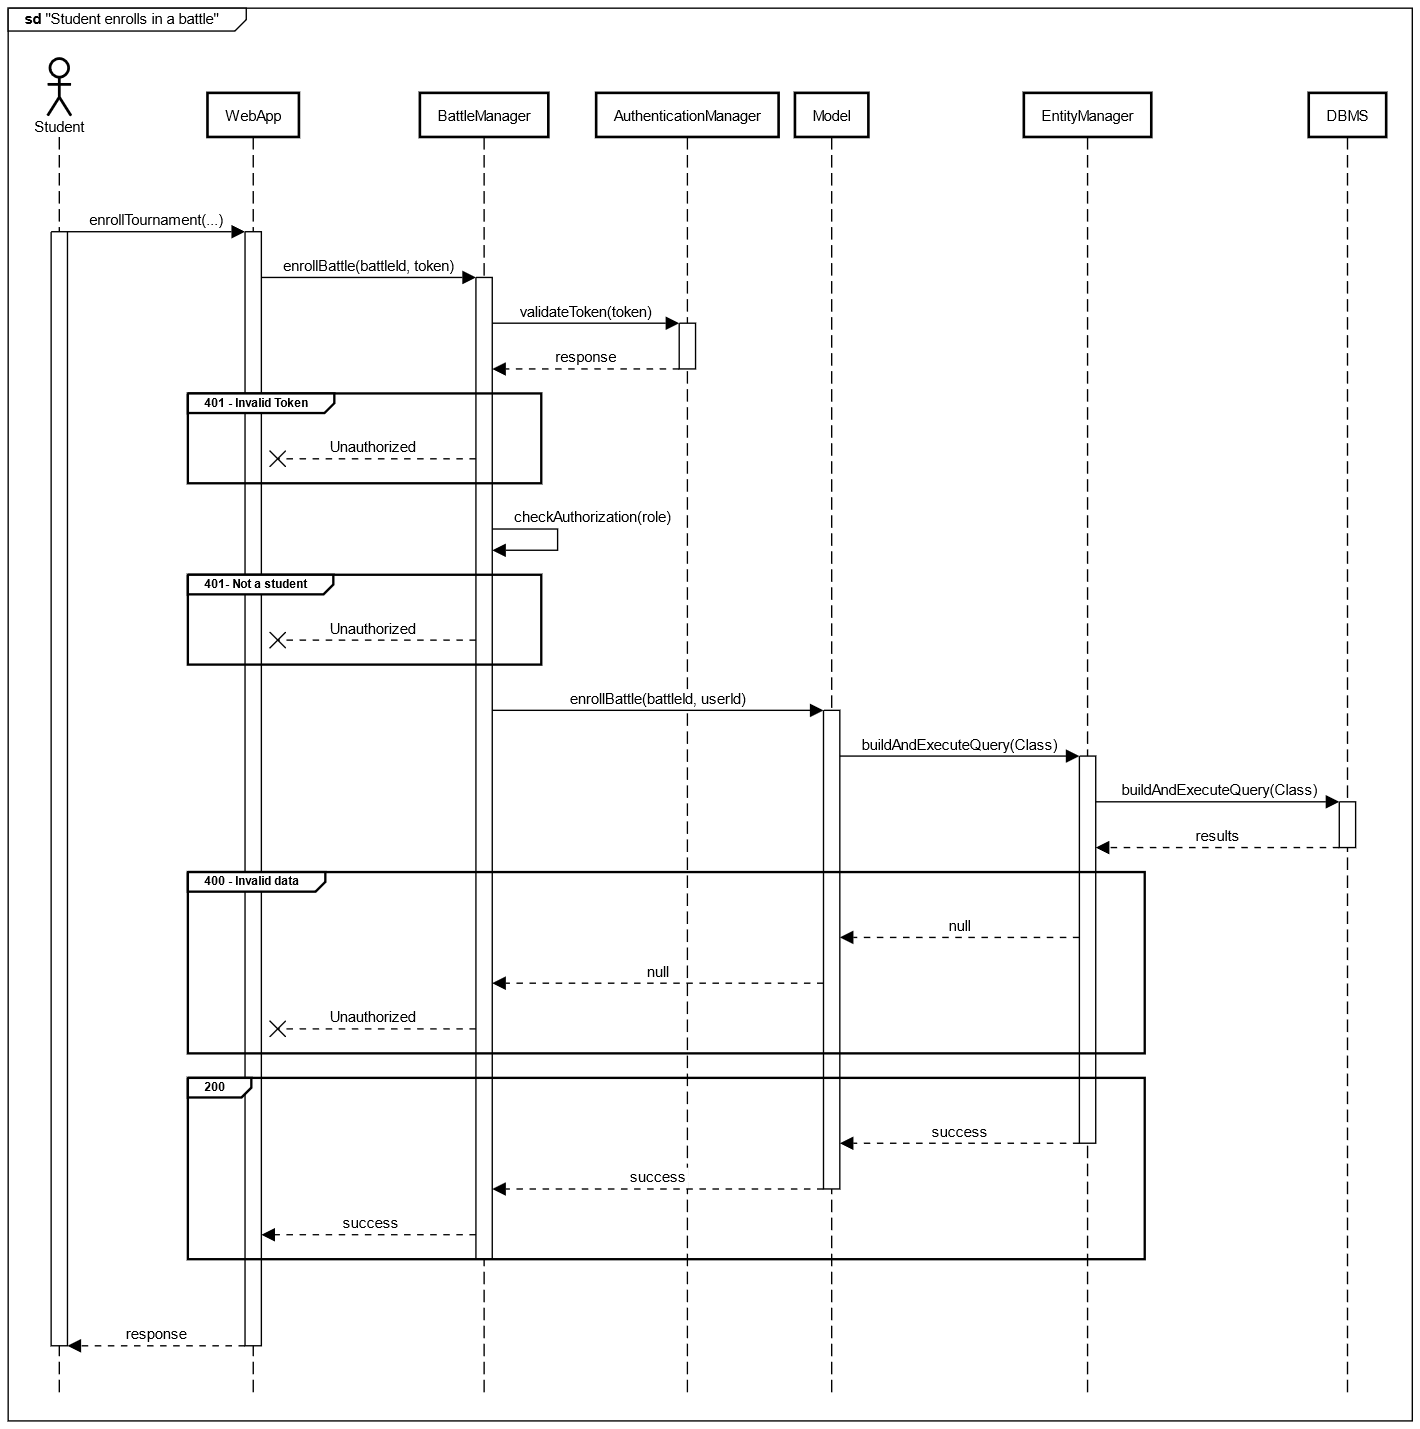
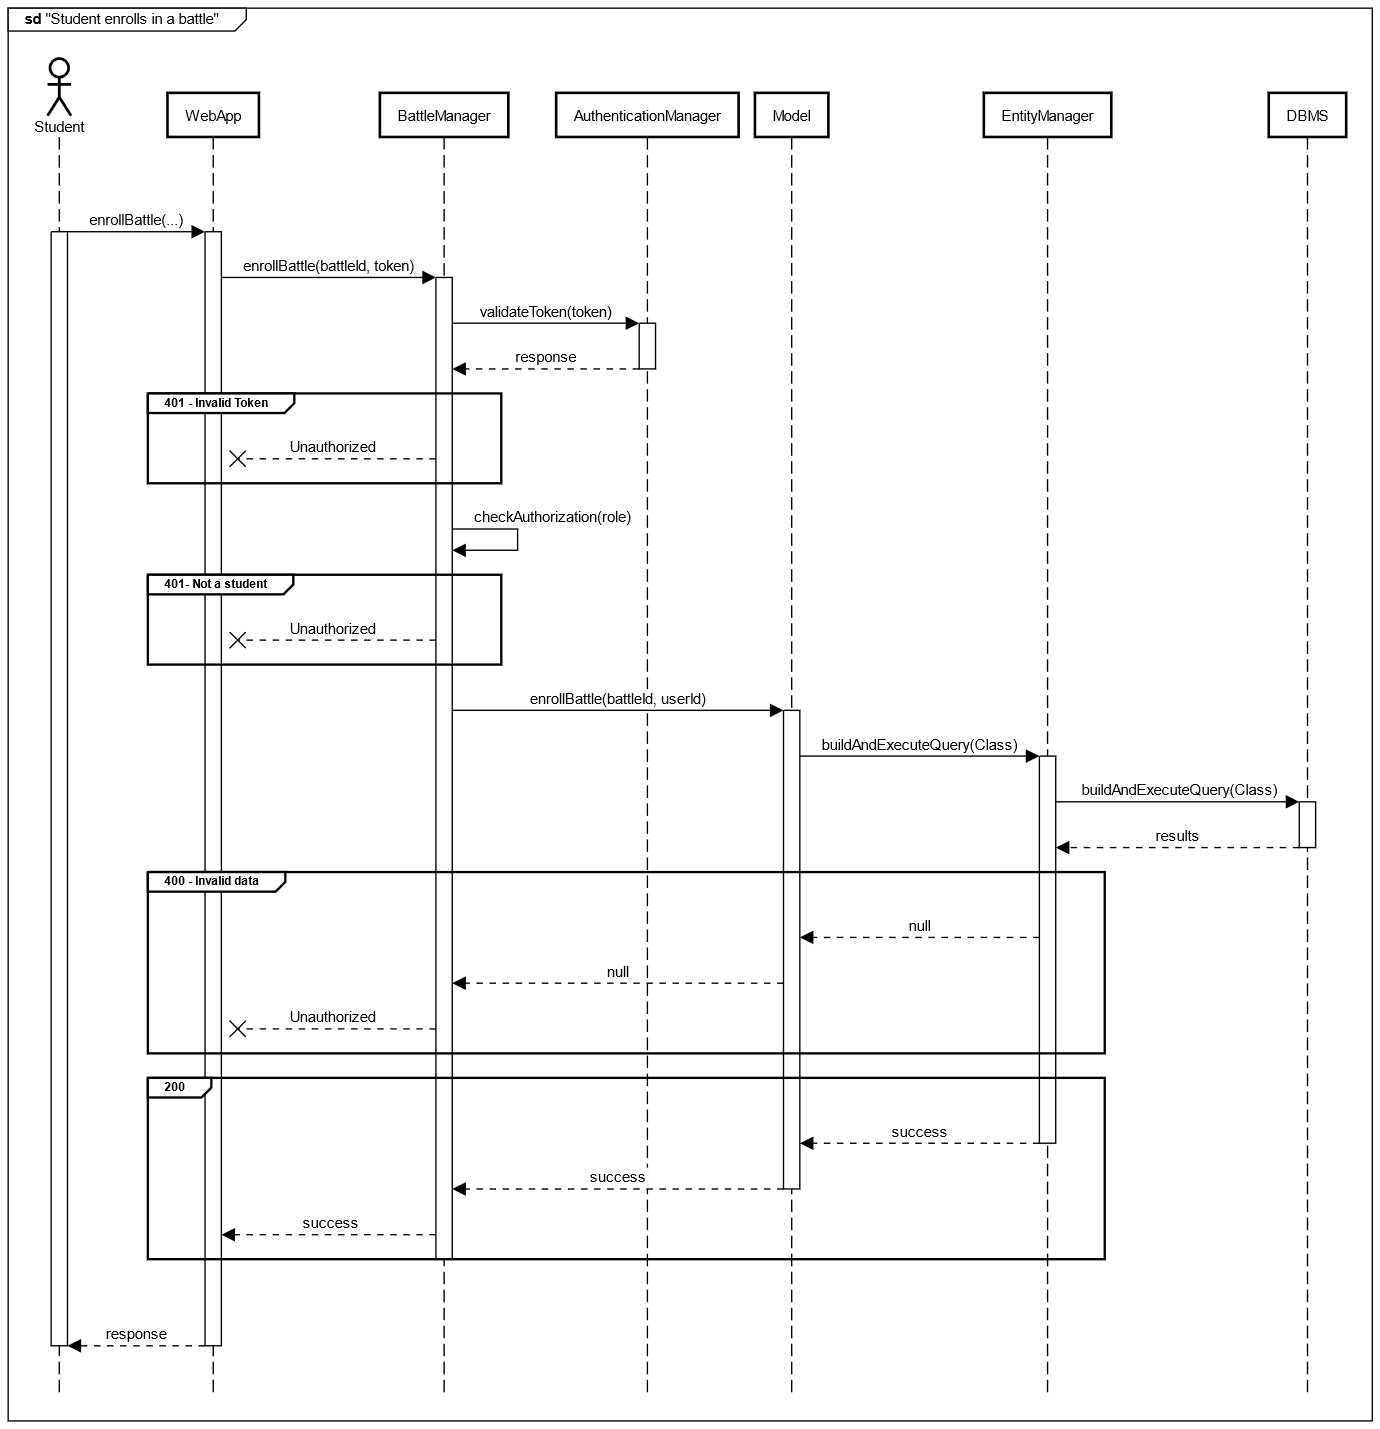
Updated DD

diff --git a/DD/DD_latex/DD.tex b/DD/DD_latex/DD.tex
@@ -242,7 +242,7 @@ The design document aims to explain in detail how we plan to build our system to
     \midrule
     7-Gen-2024 & 1.0 & Initial Release of the document \\
     \midrule
-    4-Feb-2024 & 2.0 & Adjustments implemented to conform to ITD Prototype. Altered logical design of database, leading to revised diagrams. Modified URL structure of some endpoints to comply with Spring standards. \\
+    4-Feb-2024 & 2.0 & Altered logical design of database, leading to revised diagrams. Modified URL structure of some endpoints to comply with Spring standards. \\
     \bottomrule
 \end{tabularx}
 
@@ -472,9 +472,29 @@ The diagram represented down below shows the process of a Student visualizing To
 \caption{A Student sees the tournaments he is enrolled in }
 \end{figure}
 
+\subsection*{Student gets the token to set up the GitHub Action for a battle}
+
+The diagram represented down below shows the process of a Student getting the token to setup the Github action to automatically notify CKB of a push in the repository. Upon successful authentication, the BattleManager communicates with the Model to validate the student's enrollment in the battle and obtain the battle's submission deadline to produce the token, then the BattleManager uses the AuthenticationManager to generate and return to the webapp a valid token.
+
+\begin{figure}[H]
+\centering
+\includegraphics[scale = 0.33]{Images/diagrams/sequences/getGitHubToken.png}\\
+\caption{A Student gets the token for a battle to setup the GitHub Action}
+\end{figure}
+
 \subsection*{Educator sees the tournaments they can manage}
 
-The diagram represented down below shows the process of a Student visualizing Tournaments they can manage. The TournamentsManager communicates with the Model to retrieve created Tournaments based on the Educator's ID. This triggers a database query executed by the EntityManager. Upon receiving the results, the TournamentsManager sends the list of Tournaments back to the WebApp.
+The diagram represented down below shows the process of a User visualizing Tournaments filtering by state. Upon successful authentication, the TournamentManager communicates with the Model to retrieve the Tournaments in the given state.
+
+\begin{figure}[H]
+\centering
+\includegraphics[scale = 0.33]{Images/diagrams/sequences/getTournamentsByState.png}\\
+\caption{A User sees the tournaments by state }
+\end{figure}
+
+\subsection*{User sees the tournaments by state}
+
+The diagram represented down below shows the process of an Educator visualizing Tournaments he can manage. The TournamentsManager communicates with the Model to retrieve created Tournaments based on the Educator's ID. This triggers a database query executed by the EntityManager. Upon receiving the results, the TournamentsManager sends the list of Tournaments back to the WebApp.
 
 \begin{figure}[H]
 \centering
@@ -482,7 +502,7 @@ The diagram represented down below shows the process of a Student visualizing To
 \caption{An Educator sees the tournaments he created}
 \end{figure}
 
-\subsection*{User sees battles in a tournament}
+\subsection*{Educator sees battles in a tournament}
 
 The diagram represented down below shows the process of a User visualizing the list of all the Battles in a Tournament. It comprehends the entire history of Battles ever created in the context of a Tournament. Although, as specified in section 2.5, it is possible to retrieve only the Battles in a certain status. Upon successful token validation, the TournamentsManager communicates with the Model to retrieve the Battles linked to the specified Tournament and the User's ID. This interaction triggers the EntityManager to execute a query on the DBMS. In a successful scenario, the Battles related to the Tournament flow back through the components, concluding with the TournamentsManager transmitting the list of Battles back to the WebApp. 
 
@@ -562,24 +582,34 @@ The diagram represented down below shows the process of a Student visualizing th
 \caption{A User sees the submissions of a battle}
 \end{figure}
 
-\subsection*{Student sees the battles they are enrolled in within a tournament}
+\subsection*{Student sees the battles he is enrolled in within a tournament}
 
 The diagram represented down below shows the process of a Student visualizing the Battles they are enrolled in within the context of a certain Tournament. It begins as the WebApp initiates a request for Battles, providing the Tournament ID. Upon successful token validation and role authorization, the BattleManager retrieves the Battles the Students are enrolled in from the Model based on the provided Tournament ID. An invalid Tournament ID triggers error handling, resulting in a null response. In a successful scenario, the Battles flow from the EntityManager to the Model, concluding with the BattleManager transmitting the submissions to the WebApp.
 
 \begin{figure}[H]
 \centering
 \includegraphics[scale = 0.33]{Images/diagrams/sequences/GetEnrolledBattles.png}\\
-\caption{Student sees the battles they are enrolled in within a tournament}
+\caption{Student sees the battles he is enrolled in within a tournament}
 \end{figure}
 
-\subsection*{Educator sees the battles of a tournament they can manage}
+\subsection*{Student accepts the invite in a group for a battle}
 
-The diagram represented down below shows the process of an Educator visualizing the list of Battles within the context of a Tournament that they can manage. It begins as the WebApp initiates a request for the Battles, providing the Tournament ID. Upon successful authentication, the BattleManager retrieves the Battles from the Model based on the provided Tournament ID. An invalid Tournament ID triggers error handling, resulting in a null response. In a successful scenario, the Battles flow from the EntityManager to the Model, concluding with the BattleManager transmitting the submissions to the WebApp.
+The diagram represented down below shows the process of a Student accepting the invite for a Battle of a tournament he is enrolled in. It begins as the Student initiates a request to accept the invite, using the token recieved as part of the notification. Upon successful token validation, the BattleManager accepts the Battle invite, and if enough students have accepted the invite the group is automatically enrolled in the battle. Either an invalid token, or an already accepted invite triggers error handling, resulting in a null response. In a successful scenario, the user is redirected to the Homepage.
+
+\begin{figure}[H]
+\centering
+\includegraphics[scale = 0.33]{Images/diagrams/sequences/acceptInvite.png}\\
+\caption{Student accepts an invite }
+\end{figure}
+
+\subsection*{Educator sees the battles of a tournament he manages}
+
+The diagram represented down below shows the process of an Educator visualizing the list of Battles within the context of a Tournament that he can manage. It begins as the WebApp initiates a request for the Battles, providing the Tournament ID. Upon successful authentication, the BattleManager retrieves the Battles from the Model based on the provided Tournament ID. An invalid Tournament ID triggers error handling, resulting in a null response. In a successful scenario, the Battles flow from the EntityManager to the Model, concluding with the BattleManager transmitting the submissions to the WebApp.
 
 \begin{figure}[H]
 \centering
 \includegraphics[scale = 0.33]{Images/diagrams/sequences/getCreatedBattles.png}\\
-\caption{An Educator sees the battles of a tournament they can manage}
+\caption{An Educator sees the battles of a tournament he manages}
 \end{figure}
 
 \subsection*{GitHub Notifies CKB of a new push in a main branch}
@@ -630,7 +660,7 @@ In this section, we use a class diagram to illustrate the component interfaces. 
 
 \begin{figure}[H]
 \centering
-\includegraphics[angle=90, scale = 0.33]{Images/diagrams/ComponentSystem.png}\\
+\includegraphics[angle=90, scale = 0.5]{Images/diagrams/ComponentSystem.png}\\
 \caption{Class diagram with interfaces of the CodeKataBattle System}
 \end{figure}
 
@@ -639,173 +669,173 @@ In this section the API endpoints are presented. The focus is on the method used
 
 \subsubsection{POST api/user/login}
 \begin{description}
-    \item[Request Body:] User: Object
-    \item[200 Response:] UserObject + token
-    \item[400 Response:] String (“eMail not valid, “Password must contain at least 8 characters (at least one uppercase), at least 1 special symbol and at least 1 number”)
-    \item[401 Response:] error: String (“Email or Password are wrong”)
+    \item[Request Body:] User: Object 
+    \item[200 Response:] Username, token : Object
+    \item[400 Response:] validationError : Object 
+    \item[401 Response:] loginError : Object
 \end{description}
 
 \subsubsection{POST api/user/register}
 \begin{description}
     \item[Request Body:] User: Object
-    \item[200 Response:] String("User registered")
-    \item[400 Response:] error :String("Invalid parameters")
+    \item[201 Response:] Created
+    \item[400 Response:] validationError : Object
 \end{description}
 
 \subsubsection{GET api/tournaments}
 \begin{description}
-    \item[200 Response:] All Tournaments: Array of Objects
-    \item[401 Response:] error: String (“Unauthorized”)
+    \item[200 Response:] tournaments: Array of Objects
+    \item[401 Response:] Unauthorized
 \end{description}
 
 \subsubsection{GET api/tournaments/state/\{state\}}
 \begin{description}
     \item[Request Parameters:] state: String
-    \item[200 Response:] All Tournaments in state {state}: Array of Objects
-    \item[401 Response:] error: String (“Unauthorized”)
+    \item[200 Response:] tournaments: Array of Objects
+    \item[400 Response:] validationError : Object
+    \item[401 Response:] Unauthorized
 \end{description}
 
 \subsubsection{GET api/tournaments/managed}
 \begin{description}
     \item[200 Response:] managedTournaments: Array of Objects
-    \item[400 Response:] error: String (“Invalid or missing tournamentId”)
-    \item[401 Response:] error: String (“Unauthorized”)
+    \item[401 Response:] Unauthorized
 \end{description}
 
 \subsubsection{GET api/tournaments/enrolled}
 \begin{description}
     \item[200 Response:] enrolledTournaments: Array of Objects
-    \item[400 Response:] error: String (“Invalid or missing tournamentId”)
-    \item[401 Response:] error: String (“Unauthorized”)
+    \item[401 Response:] Unauthorized
 \end{description}
 
 \subsubsection{POST api/tournaments/create}
 \begin{description}
     \item[Request Body:] tournament : Object
-    \item[200 Response:] createdTournament: Array of Objects
-    \item[400 Response:] error: String (“Invalid or missing tournamentId”)
-    \item[401 Response:] error: String (“Unauthorized”)
+    \item[201 Response:] Created
+    \item[400 Response:] validationError : Object
+    \item[401 Response:] Unauthorized
 \end{description}
 
 \subsubsection{GET api/tournaments/\{tournamentId\}}
 \begin{description}
     \item[Request Parameters:] tournamentId: int
     \item[200 Response:] tournament: Object
-    \item[400 Response:] error: String (“Invalid or missing tournamentId”)
-    \item[401 Response:] error: String (“Unauthorized”)
+    \item[400 Response:] validationError : Object
+    \item[401 Response:] Unauthorized
 \end{description}
 
 \subsubsection{POST api/tournaments/\{tournamentId\}/enroll}
 \begin{description}
     \item[Request Parameters:] tournamentId: int
-    \item[200 Response:] String("User enrolled")
-    \item[400 Response:] error :String("Invalid parameters")
-    \item[401 Response:] error: String (“Unauthorized”)
+    \item[200 Response:] "Enrollment successful." : String
+    \item[400 Response:] error : Object
+    \item[401 Response:] Unauthorized
 \end{description}
 
 \subsubsection{POST api/tournaments/\{tournamentId\}/close}
 \begin{description}
     \item[Request Parameters:] tournamentId: int
-    \item[200 Response:] String("Tournament closed")
-    \item[400 Response:] error :String("Invalid parameters")
-    \item[401 Response:] error: String (“Unauthorized”)
+    \item[200 Response:] tournament : Object
+    \item[400 Response:] error : Object
+    \item[401 Response:] Unauthorized
 \end{description}
 
 \subsubsection{GET api/tournaments/\{tournamentId\}/battles}
 \begin{description}
     \item[Request Parameters:] tournamentId: int
     \item[200 Response:] battles: Array of Objects
-    \item[400 Response:] error: String (“Invalid or missing tournamentId”)
-    \item[401 Response:] error: String (“Unauthorized”)
+    \item[400 Response:] error : Object
+    \item[401 Response:] Unauthorized
 \end{description}
 
 \subsubsection{GET api/tournaments/\{tournamentId\}/battles/enrolled}
 \begin{description}
     \item[200 Response:] enrolledBattles: Array of Objects
-    \item[400 Response:] error: String (“Invalid or missing tournamentId”)
-    \item[401 Response:] error: String (“Unauthorized”)
+    \item[400 Response:] validationError : Object
+    \item[401 Response:] Unauthorized
 \end{description}
 
 \subsubsection{GET api/tournaments/\{tournamentId\}/ranking}
 \begin{description}
     \item[200 Response:] ranking: Array of Objects
-    \item[400 Response:] error: String (“Invalid or missing tournamentId”)
-    \item[401 Response:] error: String (“Unauthorized”)
+    \item[400 Response:] validationError : Object
+    \item[401 Response:] Unauthorized
 \end{description}
 
 \subsubsection{POST api/tournaments/\{tournamentId\}/createBattle}
 \begin{description}
     \item[Request Body:] battle : Object
-    \item[200 Response:] message: String "Battle created successfully."
-    \item[400 Response:] error: String("Missing values", "Values not valid")
-    \item[401 Response:] error: String (“Unauthorized”)
+    \item[200 Response:] battle : Object
+    \item[400 Response:] error : Object
+    \item[401 Response:] Unauthorized
 \end{description}
 
-\subsubsection{POST api/battles/enroll}
+\subsubsection{POST api/battles/\{battleId\}/enroll}
 \begin{description}
-    \item[Request Body:] BattlesId: int, InvitedUsernames: String
-    \item[200 Response:] String("User enrolled")
-    \item[400 Response:] error :String("Invalid parameters")
-    \item[401 Response:] error: String (“Unauthorized”)
+    \item[Request Parameter:] BattlesId: int, InvitedUsernames: String
+    \item[200 Response:] "Enrolled successfully" : String
+    \item[400 Response:] error : Object
+    \item[401 Response:] Unauthorized
 \end{description}
 
 \subsubsection{GET api/battles/\{battleId\}}
 \begin{description}
     \item[200 Response:] Battle: Object
-    \item[400 Response:] error: String (“Invalid or missing BattleId”)
-    \item[401 Response:] error: String (“Unauthorized”)
+    \item[400 Response:] validationError : Object
+    \item[401 Response:] Unauthorized
 \end{description}
 
 \subsubsection{GET api/battles/\{battleId\}/submissions}
 \begin{description}
     \item[200 Response:] submissions: Array of Objects
-    \item[400 Response:] error: String (“Invalid or missing BattleId”)
-    \item[401 Response:] error: String (“Unauthorized”)
+    \item[400 Response:] validationError : Object
+    \item[401 Response:] Unauthorized
 \end{description}
 
 \subsubsection{GET api/battles/\{battleId\}/getGitHubToken}
 \begin{description}
     \item[200 Response:] token: String
-    \item[400 Response:] error: String (“Invalid or missing BattleId”)
-    \item[401 Response:] error: String (“Unauthorized”)
+    \item[400 Response:] validationError : Object
+    \item[401 Response:] Unauthorized
 \end{description}
 
 \subsubsection{GET api/battles/acceptInvitation/\{token\}}
 \begin{description}
     \item[300 Response:] redirectToHomePage
-    \item[400 Response:] error: String (“Invalid or missing BattleId”)
-    \item[401 Response:] error: String (“Unauthorized”)
+    \item[400 Response:] error : Object
+    \item[401 Response:] Unauthorized
 \end{description}
 
 \subsubsection{GET api/battles/\{battleId\}/ranking}
 \begin{description}
     \item[200 Response:] ranking: Array of Objects
-    \item[400 Response:] error: String (“Invalid or missing BattleId”)
-    \item[401 Response:] error: String (“Unauthorized”)
+    \item[400 Response:] validationError : Object
+    \item[401 Response:] Unauthorized
 \end{description}
 
 \subsubsection{POST api/battles/commit}
 \begin{description}
     \item[Request Header:] custom JWT Token on purpose for the endpoint
     \item[Request Body:] commitHash : String, repositoryUrl : String
-    \item[400 Response:] error: String (“Invalid or missing BattleId”)
-    \item[401 Response:] error: String (“Unauthorized”)
+    \item[200 Response:] success : Object
+    \item[400 Response:] error : Object
+    \item[401 Response:] Unauthorized
 \end{description}
 
 \subsubsection{POST api/battles/\{battleId\}/closeBattle}
 \begin{description}
     \item[Request Parameter:] battleId: int
-    \item[200 Response:] message: String "Battle created successfully."
-    \item[400 Response:] error: String("Missing values", "Values not valid")
-    \item[401 Response:] error: String (“Unauthorized”)
+    \item[200 Response:] battle : Object
+    \item[400 Response:] validationError : Object
+    \item[401 Response:] Unauthorized
 \end{description}
 
 \subsubsection{POST api/battles/correctScore}
 \begin{description}
     \item[Request Body:] submissionId: int, correction: int
-    \item[200 Response:] message: String "Success"
-    \item[400 Response:] error: String("Missing values", "Values not valid")
-    \item[401 Response:] error: String (“Unauthorized”)
+    \item[200 Response:] score : Object
+    \item[400 Response:] error : Object
+    \item[401 Response:] Unauthorized
 \end{description}
 
 
@@ -813,22 +843,30 @@ In this section the API endpoints are presented. The focus is on the method used
 \begin{description}
     \item[Request Parameters:] keyword: String, state: String
     \item[200 Response:] enrolledTournaments: Array of Objects
-    \item[401 Response:] error: String (“Unauthorized”)
+    \item[401 Response:] Unauthorized
 \end{description}
 
 \subsubsection{GET api/profile/search}
 \begin{description}
     \item[Request Parameters:] keyword: String
     \item[200 Response:] profiles: Array of Objects
-    \item[401 Response:] error: String (“Unauthorized”)
+    \item[401 Response:] Unauthorized
+\end{description}
+
+\subsubsection{PUT api/profile/\{profileId\}}
+\begin{description}
+    \item[Request Parameters:] profileId: int
+    \item[200 Response:] profiles: Array of Objects
+    \item[400 Response:] validationError : Object
+    \item[401 Response:] Unauthorized
 \end{description}
 
 \subsubsection{GET api/profile/\{profileId\}}
 \begin{description}
     \item[Request Parameter:] profileId: int
     \item[200 Response:] profile: object
-    \item[400 Response:] error: String (“Invalid or missing profileId”)
-    \item[401 Response:] error: String (“Unauthorized”)
+    \item[400 Response:] validationError : Object
+    \item[401 Response:] Unauthorized
 \end{description}
 
 {\color{bluepoli}\rule{\linewidth}{0.1pt}}
